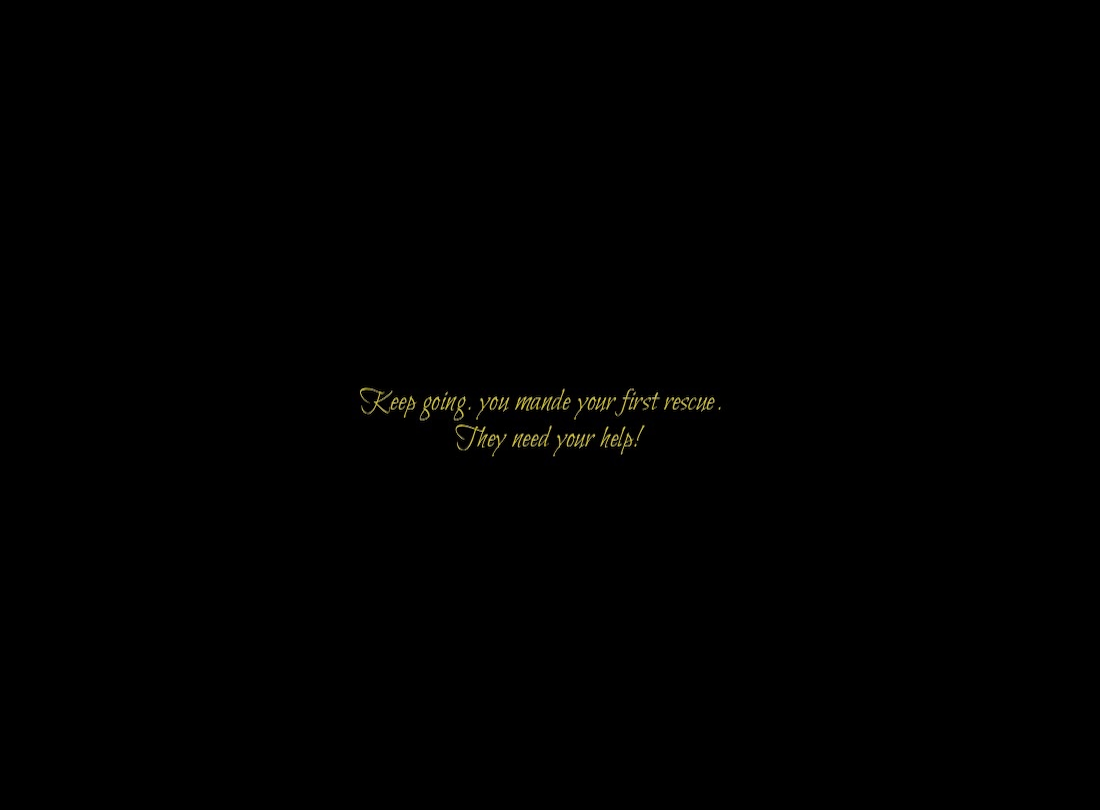
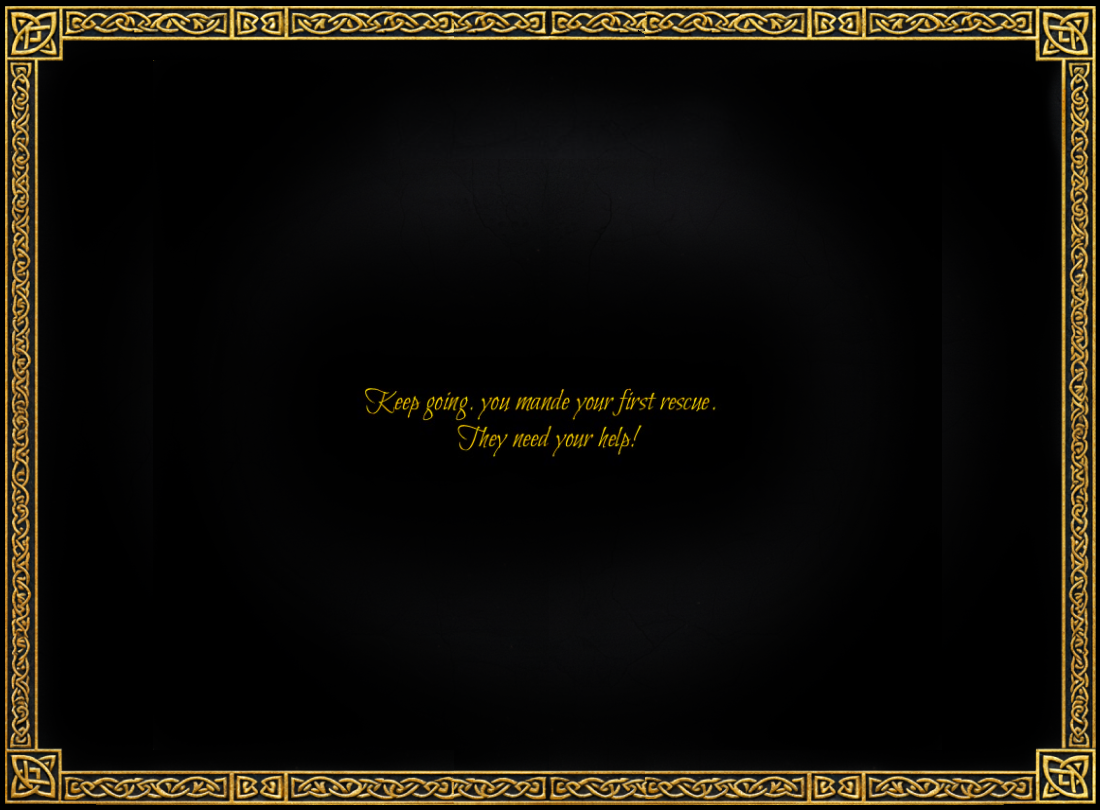
switched the background images shown after completing a level

Changed region(s): [[0.0, 0.0, 1.0, 1.0], [0.3091, 0.463, 0.6491, 0.5556]]

diff --git a/src/main/java/io/codeforall/bootcamp/arkanoid/pages/BreakPage.java b/src/main/java/io/codeforall/bootcamp/arkanoid/pages/BreakPage.java
@@ -14,7 +14,7 @@ import java.util.Arrays;
 
 public class BreakPage implements Page {
     private final String[] picturePaths = new String[]{
-            "breakPage/introLevel.png",
+            "breakPage/intro.png",
             "breakPage/firstLevel.png",
             "breakPage/secondLevel.png",
             "breakPage/finalLevel.png"};
